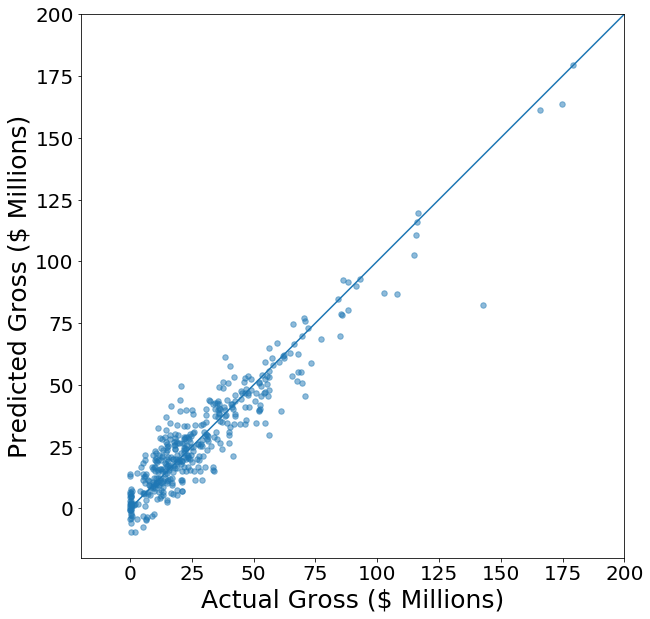
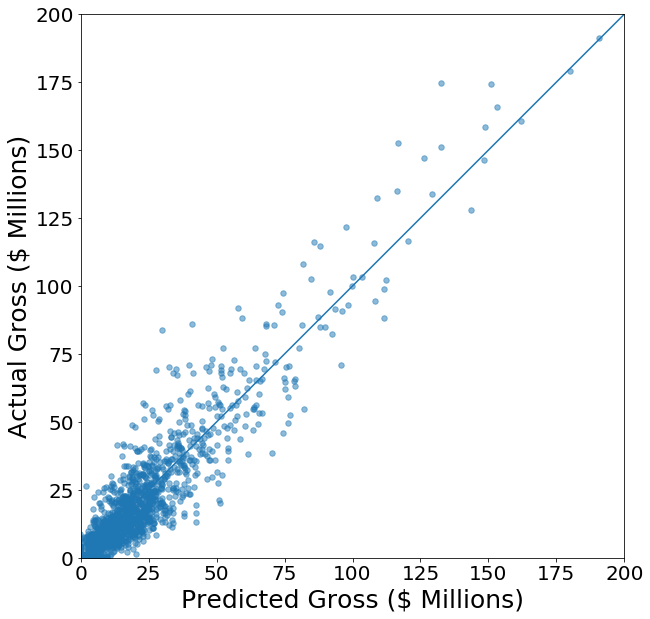
Updates made

diff --git a/_projects/2017-07-21-predicting-movie-earnings.md b/_projects/2017-07-21-predicting-movie-earnings.md
@@ -82,6 +82,16 @@ The non-linear upward curve is quite apparent, and it's not just a second-order 
 This means we should fit up to a sixth order polynomial.
 
 
+### Ticket sales
+
+The total gross that a movie makes depends on the cost of a ticket.  A movie that opened in 1950 naturally won't make nearly as much as a movie that opened in 2010, even if they opened in the same number of theaters, simply because the cost of a ticket is much higher in 2010.  
+
+Here you can see the 
+
+<p align="center">
+<img src="/public/img/Ticket_Sales.png?raw=true" alt="Gross vs. Number of Theaters"/>
+</p>
+
 ### Accumulated Gross
 
 The accumulated gross of prior movies acts as an indicator of how well the movies typically do for cast and crew members.  If we plot the accumulated gross compared to the number of movies, the slope is the average gross per movie.  I expected the slopes for different crew to be somewhat similar, for the slopes to increase with number of movies, and for the trends to be very noisy.  However, I was surprised to see how consistent the trends were for different crew members.  Below is a plot showing the accumulated gross vs. number of movies for Executive Producers.  
@@ -98,6 +108,9 @@ This means the succeess of a crew member's movie doesn't necessarily change with
 <img src="/public/img/Exec_Producers_Rate.png?raw=true" alt="Accumulated Gross Rate vs. Number of Movies"/>
 </p>
 
+
+
+
 <br>
 
 ## Regularization
@@ -111,16 +124,19 @@ Regularization does a fit to the data while minimizing the complexity of the mod
 
 The *tuning parameter* $$\lambda$$ is chosen based on how much penalty should be given for the weights.  If lambda is small, the model won't be penalized as much for having larger weights.  As lambda gets larger, more penalty will be given for having more features, so the weights will be decreased as long as it doesn't greatly affect the model fit.  This will leave behind only the most important features.  Ridge and ElasticNet are other regularizations that can be used, but I found that Lasso worked better for this data set.
 
-When doing regularization, standardization of the data makes it so the tuning parameter equally affects the different weights.  If the data isn't standardized, some feature weights will be very large while others are small, so the larger weights would be penalized more simply because they are larger instead of because of their importance.
+When doing regularization, standardization of the data makes it so the tuning parameter equally affects the different weights.  If the data isn't standardized, some feature weights will be very large while others are small, so the larger weights would be penalized more simply because they are larger rather than based on their importance.
 
 
 <br>
 
 ## The model
 
+I used a second-order polynomial fit that was made to the data using a scikit-learn pipeline, and the $$R^2$$ value of the model fit was 0.87.  Here you can see the comparison of the predicted values vs. the actual opening weekend gross:
 
 
-
+<p align="center">
+<img src="/public/img/Movie_Gross_Prediction.png?raw=true" />
+</p>
 
 
 
